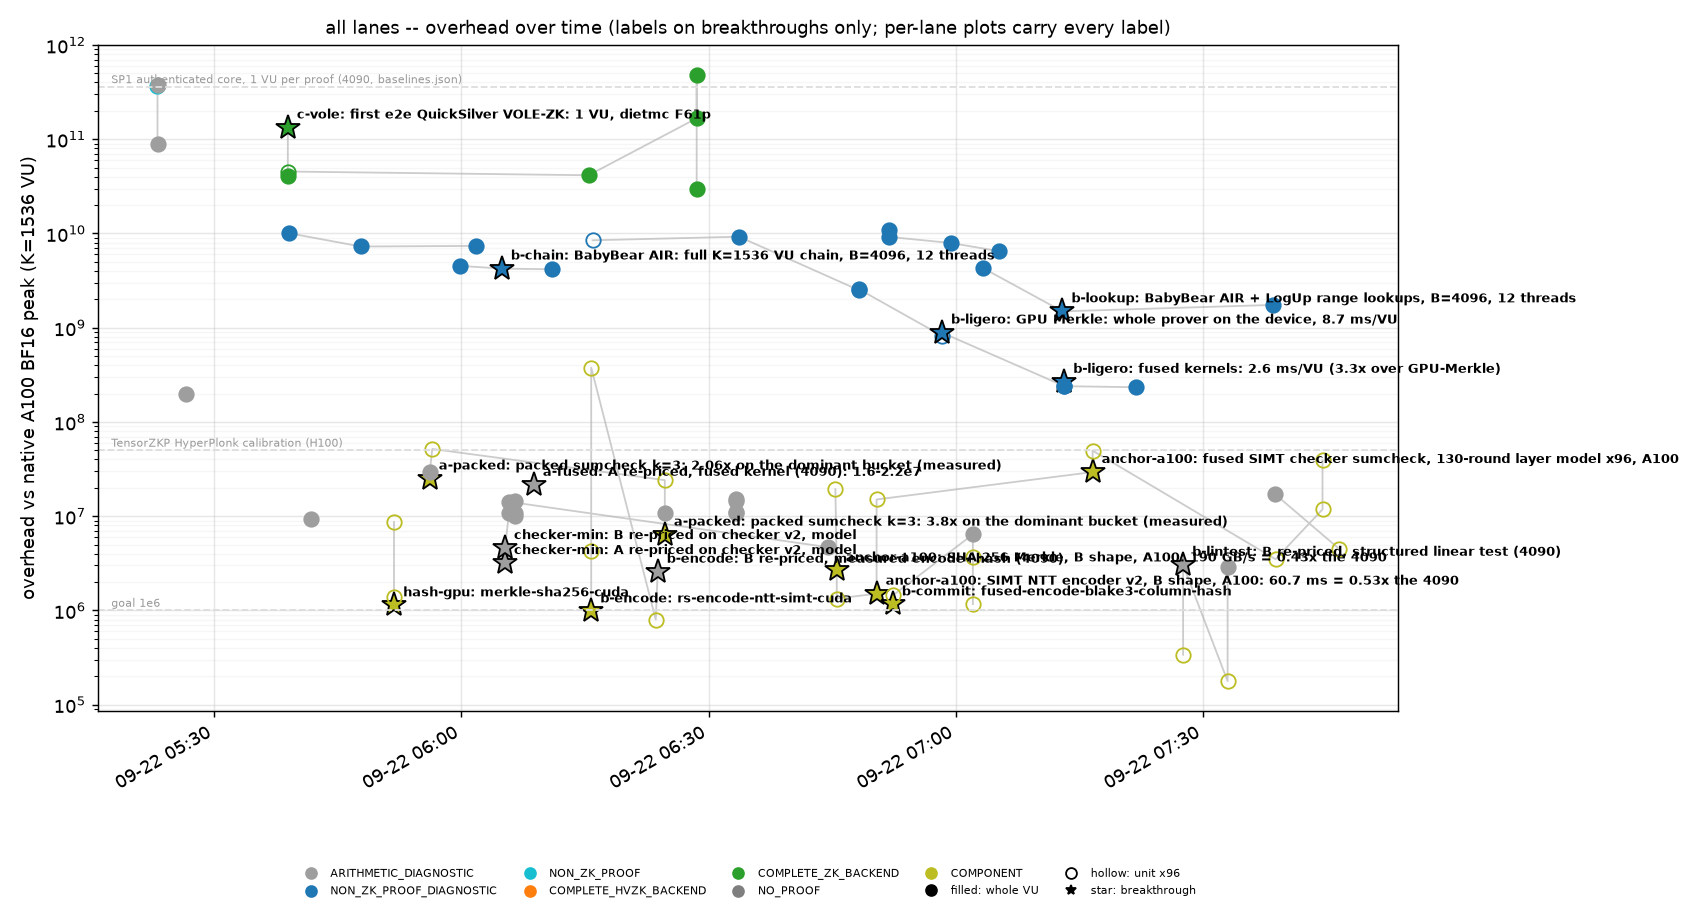
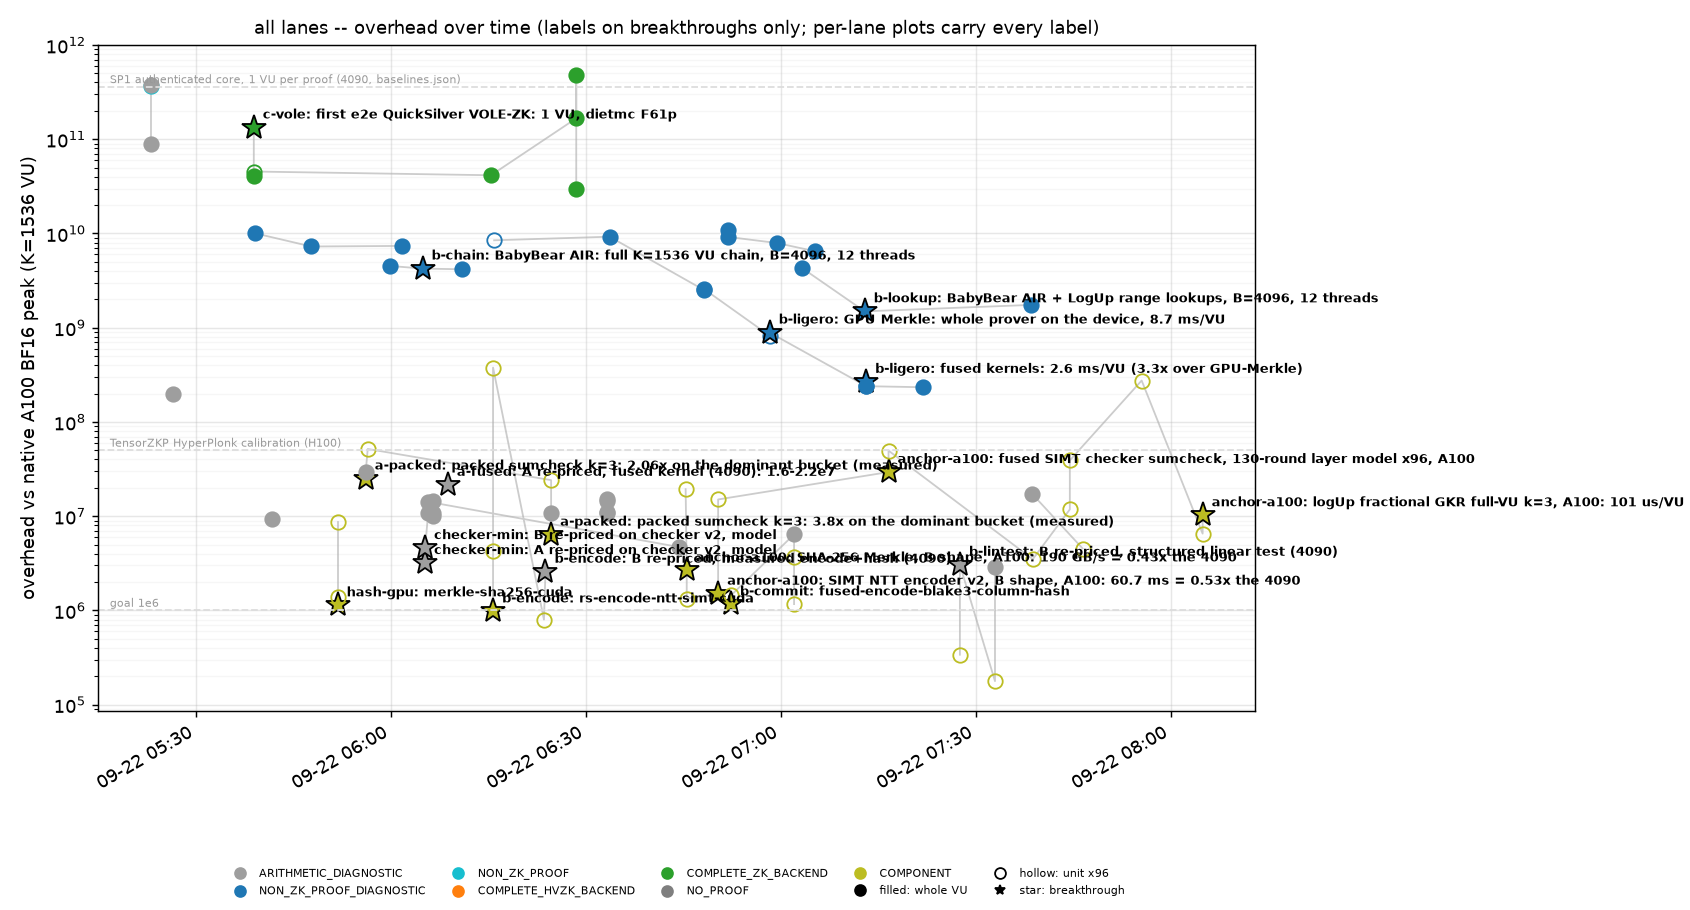
anchor-a100: a-packed2 kernels on the A100 (section 4b, packed README row, 2 ledger entries; logUp GKR launch-bound flagged); re-price uses Montgomery k=3 2^28 + measured logUp GKR: A 1.83e7

diff --git a/backends/shared/anchor_a100/report.py b/backends/shared/anchor_a100/report.py
@@ -260,6 +260,44 @@ def sec_packed(a100: dict, ref: dict) -> tuple[str, list[dict]]:
     return txt, data
 
 
+def sec_packed2(a26: dict, h26: dict, a28: dict, h28: dict, alog: dict, hlog: dict) -> tuple[str, list[dict]]:
+    """a-packed2 second pass: 32-bit Montgomery packed sumcheck (2^26 table, direct 2^28) and the logUp fractional GKR at the full-VU shape."""
+    rows, data = [], []
+    for lg, A, H in ((26, a26, h26), (28, a28, h28)):
+        for k in range(5):
+            ra = next((r for r in A["results"] if r["log2_t"] == lg and r["k"] == k), None)
+            rh = next((r for r in H["results"] if r["log2_t"] == lg and r["k"] == k), None)
+            if not ra or not rh:
+                continue
+            util_a = ra["macs_performed"] / DATASHEET_INT8_MACS / ra["seconds"]
+            rows.append([f"Montgomery packed sumcheck 2^{lg}, k={k}", f"{rh['seconds']*1e3:.2f} ms", f"{ra['seconds']*1e3:.2f} ms ({util_a:.2%} of A100 INT8 peak)", f"{rh['seconds']/ra['seconds']:.2f}x",
+                         f"{ra['macs_performed']/DATASHEET_INT8_MACS*1e3:.2f} ms TC@312T", f"{util_a:.4f}", f"{ra['mem.peak_device_bytes']/1e9:.1f} GB"])
+            data.append({"kernel": "packed2", "log2_t": lg, "k": k, "ref_gpu": "H100", "ref_s": rh["seconds"], "a100_s": ra["seconds"], "ratio_ref_over_a100_time": rh["seconds"] / ra["seconds"],
+                         "a100_fraction_of_int8_peak": util_a, "a100_peak_mem_bytes": ra["mem.peak_device_bytes"]})
+    for lg, A, H in ((26, a26, h26), (28, a28, h28)):
+        for k in sorted(A["layers"], key=int):
+            La, Lh = A["layers"][k], H["layers"].get(k)
+            if not Lh:
+                continue
+            rows.append([f"six-layer batch from the 2^{lg} fit, k={k} (padded / un-padded)", f"{Lh['batch_seconds.padded']*1e3:.0f} / {Lh['batch_seconds.unpadded']*1e3:.0f} ms = {Lh['per_vu_seconds.padded']*1e6:.1f} us/VU",
+                         f"{La['batch_seconds.padded']*1e3:.0f} / {La['batch_seconds.unpadded']*1e3:.0f} ms = **{La['per_vu_seconds.padded']*1e6:.1f} us/VU**", f"{Lh['batch_seconds.padded']/La['batch_seconds.padded']:.2f}x", "", "", ""])
+            data.append({"kernel": "packed2.layers", "log2_t_fit": lg, "k": int(k), "ref_gpu": "H100", "ref_batch_s_padded": Lh["batch_seconds.padded"], "a100_batch_s_padded": La["batch_seconds.padded"],
+                         "a100_batch_s_unpadded": La["batch_seconds.unpadded"], "a100_per_vu_s": La["per_vu_seconds.padded"], "ratio_ref_over_a100_time": Lh["batch_seconds.padded"] / La["batch_seconds.padded"]})
+    for ra in alog["results"]:
+        rh = next((r for r in hlog["results"] if r["k"] == ra["k"]), None)
+        if not rh:
+            continue
+        rows.append([f"logUp fractional GKR, full-VU shape ({alog['units']:,} x {alog['lookups']} lookups, 2^{alog['n']} leaves), k={ra['k']}", f"{rh['total_ms']:.0f} ms = {rh['us_per_vu']:.0f} us/VU",
+                     f"**{ra['total_ms']:.0f} ms = {ra['us_per_vu']:.0f} us/VU** (20 smallest levels {ra['tail_levels_ms']:.0f} ms)", f"{rh['total_ms']/ra['total_ms']:.2f}x", "", "", f"{ra['mem.peak_device_bytes']/1e9:.1f} GB"])
+        data.append({"kernel": "logup_gkr", "k": ra["k"], "ref_gpu": "H100", "ref_s": rh["total_ms"] * 1e-3, "a100_s": ra["total_ms"] * 1e-3, "ratio_ref_over_a100_time": rh["total_ms"] / ra["total_ms"],
+                     "a100_us_per_vu": ra["us_per_vu"], "a100_tail_levels_ms": ra["tail_levels_ms"], "ref_tail_levels_ms": rh["tail_levels_ms"], "a100_peak_mem_bytes": ra["mem.peak_device_bytes"],
+                     "split_ms": {k: ra[k] for k in ("histogram_ms", "tree_ms", "big_packed_ms", "big_fold_k_ms", "big_ext_ms", "tail_levels_ms")}})
+    txt = md_table(["a-packed2 kernels (whole sumcheck, CUDA-graphed rounds)", "H100 recorded", "A100 measured", "speed ratio A100/H100", "A100 TC floor", "fraction of INT8 peak", "A100 peak mem"], rows)
+    if a26.get("agreement_test_tail"):
+        txt += f"\n\nAgreement test on the A100 (Montgomery kernels): {a26['agreement_test_tail']}"
+    return txt, data
+
+
 def sec_tensor(a100: dict, ref: dict) -> tuple[str, list[dict]]:
     rows, data = [], []
     for r4 in ref["measured"]["rounds"]:
@@ -341,13 +379,20 @@ def reprice(meas: dict) -> tuple[str, dict]:
                 cands["packed k=3 six-layer batch (padded)"] = meas["packed_k3_batch_s_padded"]
             if "packed_k0_batch_s_padded" in meas:
                 cands["plain k=0 six-layer batch (padded)"] = meas["packed_k0_batch_s_padded"]
+            if "packed2_best_batch_s_padded" in meas:
+                cands[meas["packed2_best_label"] + " six-layer batch (padded)"] = meas["packed2_best_batch_s_padded"]
             if cands:
                 best_label = min(cands, key=cands.get)
                 t_gkr = cands[best_label]
                 buckets["gkr_checker_sumcheck"] = (t_gkr, f"measured: {best_label} (model @0.172: {(t_gkr_mm + t_gkr_simt)*1e3:.0f} ms; alternatives "
                                                    + ", ".join(f"{k} {v*1e3:.0f} ms" for k, v in cands.items()) + ")")
                 total = total - t_gkr_mm - t_gkr_simt + t_gkr
-                if "fused_layer_graphed_s" in meas and "logup_over_checker_round" in meas:
+                if "logup_gkr_full_vu_s" in meas:
+                    t_logup = meas["logup_gkr_full_vu_s"]
+                    buckets["logup_fractional_gkr"] = (t_logup, f"measured: a-packed2 logUp fractional GKR at the full-VU shape (393,216 units x 306 lookups, 65,536-row table), k=3, "
+                                                        f"whole bucket on the A100 (model @0.172: {(t_logup_mm + t_logup_simt)*1e3:.0f} ms; launch-bound: ~0.1-0.2 s of device work)")
+                    total = total - t_logup_mm - t_logup_simt + t_logup
+                elif "fused_layer_graphed_s" in meas and "logup_over_checker_round" in meas:
                     # per element the measured logUp round costs (logup_us / checker_us) of a fused checker round; the model's MAC ratio
                     # (which carries the 5-vs-3 table factor, hence x3/5) supplies the element count relative to the checker.
                     t_logup = meas["fused_layer_graphed_s"] * tx.UNITS_PER_VU / p.matmul["gkr_checker"] * p.matmul["logup_fractional_gkr"] * meas["logup_over_checker_round"] * 3 / 5
@@ -491,6 +536,31 @@ def main(argv=None) -> int:
         md += [f"Best k on the A100: **k={best_k}**, {Lb['batch_seconds.padded']*1e3:.0f} ms per six-layer batch = {Lb['per_vu_seconds.padded']*1e6:.1f} us/VU "
                f"(H100: k=3, 257 ms, 62.7 us/VU)." + (f"  At 2^26 k=3: {r26['a100_s']*1e3:.2f} ms vs 9.08 on the H100 ({r26['ratio_ref_over_a100_time']:.2f}x; bandwidth ratio 0.61, "
                                                      f"INT8-peak ratio 0.32)." if r26 else ""), ""]
+    p2_a26 = load(R / "wave2_gkr" / "packed26" / "bench.json")
+    p2_h26 = load(REPO / "backends/gkr/packed/results/r20260922-064917-c293/bench.json")
+    p2_a28 = load(R / "wave2_gkr" / "packed28" / "bench.json")
+    p2_h28 = load(REPO / "backends/gkr/packed/results/r20260922-065412-73be/bench.json")
+    lg_a = load(R / "wave2_gkr" / "logup" / "logup_bench.json")
+    lg_h = load(REPO / "backends/gkr/packed/results/r20260922-073439-1f15/logup_bench.json")
+    if p2_a26 and p2_h26 and p2_a28 and p2_h28 and lg_a and lg_h:
+        txt, d = sec_packed2(p2_a26, p2_h26, p2_a28, p2_h28, lg_a, lg_h)
+        doc["kernels"] += d
+        md += ["## 4b. `backends/gkr/packed` second pass (a-packed2, landed on main 07:4xZ): 32-bit Montgomery packed sumcheck, direct 2^28, logUp fractional GKR "
+               "(H100 runs `r20260922-064917-c293`, `r20260922-065412-73be`, `r20260922-073439-1f15`; A100 run `r20260922-075147-91a5`)", "", txt, ""]
+        best = min((r for r in d if r["kernel"] == "packed2.layers"), key=lambda r: r["a100_batch_s_padded"])
+        meas["packed2_best_batch_s_padded"] = best["a100_batch_s_padded"]
+        meas["packed2_best_batch_s_unpadded"] = best["a100_batch_s_unpadded"]
+        meas["packed2_best_label"] = f"Montgomery packed k={best['k']} from the 2^{best['log2_t_fit']} fit"
+        l3 = next((r for r in d if r["kernel"] == "logup_gkr" and r["k"] == 3), None)
+        if l3:
+            meas["logup_gkr_full_vu_s"] = l3["a100_s"]
+        r28 = next((r for r in d if r["kernel"] == "packed2" and r["log2_t"] == 28 and r["k"] == 3), None)
+        md += [(f"The Montgomery kernels scale with bandwidth on the A100: 0.52-0.61x the H100 at 2^26 (bandwidth ratio 0.61), k=3 direct 2^28 **{r28['a100_s']*1e3:.1f} ms** "
+                f"({r28['ratio_ref_over_a100_time']:.2f}x the H100's 17.7; {r28['a100_fraction_of_int8_peak']:.1%} of the A100 INT8 peak) = **{best['a100_per_vu_s']*1e6:.1f} us/VU, {best['a100_batch_s_padded']*1e3:.0f} ms per six-layer batch** "
+                f"padded ({best['a100_batch_s_unpadded']*1e3:.0f} un-padded) -- 1.8x better than the first-pass packed k=3 on the same card (476 ms).  k=2 and k=3 are within 4% of each other on the A100 "
+                f"(the base x base Hadamard share is INT32 work at 0.47x the H100's rate).  **Finding (flagged).**  The logUp fractional GKR runs at **{l3['a100_s']*1e3:.0f} ms = {l3['a100_us_per_vu']:.0f} us/VU** "
+                f"on the A100 vs 427 on the H100 ({l3['ratio_ref_over_a100_time']:.2f}x: a 1.7x departure from the bandwidth ratio) -- it is host-launch-bound (~1 ms x 351 rounds; the 20 smallest levels are "
+                f"{l3['a100_tail_levels_ms']:.0f} of the {l3['a100_s']*1e3:.0f} ms on both cards), so the GPU does not matter yet; the device work is ~0.1-0.2 s.  Fixing the launch loop (CUDA graphs per level) is worth ~2x on either card."), ""]
     tensor_a = load(R / "tensor" / "bench.json")
     tensor_ref = load(REPORTS / "tc_sumcheck_4090.json")
     if tensor_a and tensor_ref:

diff --git a/backends/numerical/reports/anchor_a100.md b/backends/numerical/reports/anchor_a100.md
@@ -2,7 +2,7 @@
 
 **Scope: component measurements** (kernel time on random/patterned data, bit-exact against each lane's CPU reference), then one `ARITHMETIC_DIAGNOSTIC` re-price of A and B with those numbers.  Nothing here is a proof.  Every recorded 4090 / H100 number is the lane's own (its README / report, run id in the lane's table); every A100 number is a `research run --on vy-a100b --exclusive` of the same bench, same flags, CUDA events, warm, median of >= 7, bit-exact checks on.  `overhead.vs_native_peak` is defined against *this* card's dense BF16 peak (`contract.NATIVE_REFERENCE`, 9.85 ps per K=1536 VU), so the last section is the first A-vs-B comparison where the prover and the reference are the same machine.
 
-Device: NVIDIA A100-SXM4-80GB, 580.126.16, 1410 MHz, 1593 MHz, 81920 MiB; torch 2.6.0+cu124, CUDA 12.4, 108 SMs (sm_80).  Recorded runs: microbench `r20260922-063608-a304`, hash_gpu `r20260922-063811-e561`, encode `r20260922-064413-0508`, fused `r20260922-064953-f9bb`, fused_logup `r20260922-071602-522d`, packed `r20260922-073828-153f`, packed_killed_mislaunch `r20260922-073540-f5b5`, tensor `r20260922-074359-964b`.
+Device: NVIDIA A100-SXM4-80GB, 580.126.16, 1410 MHz, 1593 MHz, 81920 MiB; torch 2.6.0+cu124, CUDA 12.4, 108 SMs (sm_80).  Recorded runs: microbench `r20260922-063608-a304`, hash_gpu `r20260922-063811-e561`, encode `r20260922-064413-0508`, fused `r20260922-064953-f9bb`, fused_logup `r20260922-071602-522d`, packed `r20260922-073828-153f`, packed_killed_mislaunch `r20260922-073540-f5b5`, tensor `r20260922-074359-964b`, wave2_gkr (packed Montgomery 2^26, direct 2^28, logUp GKR full-VU) `r20260922-075147-91a5`.
 
 Bandwidth ratios the earlier reports *scaled* by: A100/4090 = 2,039/1,008 = 2.02; A100/H100 = 2,039/3,350 = 0.61.  Speed ratios below are recorded-time / A100-time (> 1 = the A100 is faster); a departure from the bandwidth ratio by > 1.5x either way is a finding about the kernel and is flagged.
 
@@ -191,6 +191,33 @@ Agreement test on the A100: 36 passed in 61.24s (0:01:01)
 
 Best k on the A100: **k=3**, 476 ms per six-layer batch = 116.3 us/VU (H100: k=3, 257 ms, 62.7 us/VU).  At 2^26 k=3: 16.58 ms vs 9.08 on the H100 (0.55x; bandwidth ratio 0.61, INT8-peak ratio 0.32).
 
+## 4b. `backends/gkr/packed` second pass (a-packed2, landed on main 07:4xZ): 32-bit Montgomery packed sumcheck, direct 2^28, logUp fractional GKR (H100 runs `r20260922-064917-c293`, `r20260922-065412-73be`, `r20260922-073439-1f15`; A100 run `r20260922-075147-91a5`)
+
+| a-packed2 kernels (whole sumcheck, CUDA-graphed rounds) | H100 recorded | A100 measured | speed ratio A100/H100 | A100 TC floor | fraction of INT8 peak | A100 peak mem |
+|---|---|---|---|---|---|---|
+| Montgomery packed sumcheck 2^26, k=0 | 12.56 ms | 21.39 ms (6.37% of A100 INT8 peak) | 0.59x | 1.36 ms TC@312T | 0.0637 | 34.1 GB |
+| Montgomery packed sumcheck 2^26, k=1 | 10.68 ms | 17.80 ms (4.47% of A100 INT8 peak) | 0.60x | 0.79 ms TC@312T | 0.0447 | 17.2 GB |
+| Montgomery packed sumcheck 2^26, k=2 | 6.43 ms | 11.17 ms (4.62% of A100 INT8 peak) | 0.58x | 0.52 ms TC@312T | 0.0462 | 8.9 GB |
+| Montgomery packed sumcheck 2^26, k=3 | 5.97 ms | 11.54 ms (4.07% of A100 INT8 peak) | 0.52x | 0.47 ms TC@312T | 0.0407 | 4.5 GB |
+| Montgomery packed sumcheck 2^26, k=4 | 9.25 ms | 15.19 ms (4.16% of A100 INT8 peak) | 0.61x | 0.63 ms TC@312T | 0.0416 | 2.4 GB |
+| Montgomery packed sumcheck 2^28, k=2 | 19.78 ms | 34.33 ms (6.01% of A100 INT8 peak) | 0.58x | 2.06 ms TC@312T | 0.0601 | 34.4 GB |
+| Montgomery packed sumcheck 2^28, k=3 | 17.69 ms | 31.93 ms (5.88% of A100 INT8 peak) | 0.55x | 1.88 ms TC@312T | 0.0588 | 17.8 GB |
+| Montgomery packed sumcheck 2^28, k=4 | 30.96 ms | 43.80 ms (5.78% of A100 INT8 peak) | 0.71x | 2.53 ms TC@312T | 0.0578 | 10.6 GB |
+| six-layer batch from the 2^26 fit, k=0 (padded / un-padded) | 369 / 223 ms = 90.1 us/VU | 638 / 385 ms = **155.8 us/VU** | 0.58x |  |  |  |
+| six-layer batch from the 2^26 fit, k=1 (padded / un-padded) | 308 / 187 ms = 75.2 us/VU | 519 / 314 ms = **126.7 us/VU** | 0.59x |  |  |  |
+| six-layer batch from the 2^26 fit, k=2 (padded / un-padded) | 169 / 104 ms = 41.4 us/VU | 303 / 186 ms = **74.0 us/VU** | 0.56x |  |  |  |
+| six-layer batch from the 2^26 fit, k=3 (padded / un-padded) | 154 / 95 ms = 37.5 us/VU | 316 / 194 ms = **77.2 us/VU** | 0.49x |  |  |  |
+| six-layer batch from the 2^26 fit, k=4 (padded / un-padded) | 263 / 160 ms = 64.2 us/VU | 432 / 263 ms = **105.5 us/VU** | 0.61x |  |  |  |
+| six-layer batch from the 2^28 fit, k=2 (padded / un-padded) | 163 / 97 ms = 39.8 us/VU | 283 / 168 ms = **69.1 us/VU** | 0.58x |  |  |  |
+| six-layer batch from the 2^28 fit, k=3 (padded / un-padded) | 146 / 86 ms = 35.6 us/VU | 263 / 156 ms = **64.3 us/VU** | 0.55x |  |  |  |
+| six-layer batch from the 2^28 fit, k=4 (padded / un-padded) | 255 / 151 ms = 62.4 us/VU | 361 / 214 ms = **88.2 us/VU** | 0.71x |  |  |  |
+| logUp fractional GKR, full-VU shape (393,216 x 306 lookups, 2^27 leaves), k=3 | 427 ms = 104 us/VU | **412 ms = 101 us/VU** (20 smallest levels 144 ms) | 1.04x |  |  | 12.4 GB |
+| logUp fractional GKR, full-VU shape (393,216 x 306 lookups, 2^27 leaves), k=0 | 447 ms = 109 us/VU | **478 ms = 117 us/VU** (20 smallest levels 142 ms) | 0.94x |  |  | 24.8 GB |
+
+Agreement test on the A100 (Montgomery kernels): 46 passed in 405.11s (0:06:45)
+
+The Montgomery kernels scale with bandwidth on the A100: 0.52-0.61x the H100 at 2^26 (bandwidth ratio 0.61), k=3 direct 2^28 **31.9 ms** (0.55x the H100's 17.7; 5.9% of the A100 INT8 peak) = **64.3 us/VU, 263 ms per six-layer batch** padded (156 un-padded) -- 1.8x better than the first-pass packed k=3 on the same card (476 ms).  k=2 and k=3 are within 4% of each other on the A100 (the base x base Hadamard share is INT32 work at 0.47x the H100's rate).  **Finding (flagged).**  The logUp fractional GKR runs at **412 ms = 101 us/VU** on the A100 vs 427 on the H100 (1.04x: a 1.7x departure from the bandwidth ratio) -- it is host-launch-bound (~1 ms x 351 rounds; the 20 smallest levels are 144 of the 412 ms on both cards), so the GPU does not matter yet; the device work is ~0.1-0.2 s.  Fixing the launch loop (CUDA graphs per level) is worth ~2x on either card.
+
 ## 5. `backends/gkr/tensor` -- the original INT8-limb round (4090 run `r20260922-051730-15d4`)
 
 | INT8-limb round (tensor lane) | RTX 4090 recorded | A100 measured | speed ratio A100/4090 | A100 TC floor | fraction of INT8 peak |
@@ -229,9 +256,9 @@ Agreement test on the A100: 22 passed in 29.04s
 | design | model only (A100 peaks @0.172, Blake3 50 GB/s) | **A100-measured buckets**: overhead (t.total per batch) | buckets, ms (measured in bold) |
 |---|---|---|---|
 | **B** | 2.38e+07 (962 ms) | **4.88e+06** (197 ms; 48 us/VU) | encoding **57.4**; hash **54.0**; row_combination 10.1; linear/quadratic tests + helpers (SIMT) 70.6; hint_generation 1.6; prg 3.2 |
-| **A** | 3.17e+07 (1278 ms) | **2.69e+07** (1084 ms; 265 us/VU) | encoding **11.0**; hash **9.0**; row_combination 1.4; other SIMT (logUp tree build, ...) 37.2; gkr_checker_sumcheck **476.4**; logup_fractional_gkr **546.6**; hint_generation 1.6; prg 0.5 |
+| **A** | 3.17e+07 (1278 ms) | **1.83e+07** (736 ms; 180 us/VU) | encoding **11.0**; hash **9.0**; row_combination 1.4; other SIMT (logUp tree build, ...) 37.2; gkr_checker_sumcheck **263.4**; logup_fractional_gkr **412.2**; hint_generation 1.6; prg 0.5 |
 
-Measured inputs: `hash_rate_B` = 3.77e+11; `hash_rate_A` = 3.56e+11; `hash_B_kernel` = blake3; `hash_A_kernel` = blake3; `encoder_seconds_per_row_B` = 1.85e-07; `encoder_B_kernel` = ntt_simt_v2_t1024; `encoder_seconds_per_row_A` = 2.25e-07; `encoder_A_kernel` = ntt_simt_v2_t1024; `fused_layer_graphed_s` = 0.0123; `fused_checker_round_2p21_us` = 473.7920; `logup_round_2p21_us` = 1,468.6720; `logup_over_checker_round` = 3.0998; `packed_k0_batch_s_padded` = 1.5777; `packed_k0_per_vu_s` = 0.000385; `packed_k3_batch_s_padded` = 0.4764; `packed_k3_per_vu_s` = 0.000116
+Measured inputs: `hash_rate_B` = 3.77e+11; `hash_rate_A` = 3.56e+11; `hash_B_kernel` = blake3; `hash_A_kernel` = blake3; `encoder_seconds_per_row_B` = 1.85e-07; `encoder_B_kernel` = ntt_simt_v2_t1024; `encoder_seconds_per_row_A` = 2.25e-07; `encoder_A_kernel` = ntt_simt_v2_t1024; `fused_layer_graphed_s` = 0.0123; `fused_checker_round_2p21_us` = 473.7920; `logup_round_2p21_us` = 1,468.6720; `logup_over_checker_round` = 3.0998; `packed_k0_batch_s_padded` = 1.5777; `packed_k0_per_vu_s` = 0.000385; `packed_k3_batch_s_padded` = 0.4764; `packed_k3_per_vu_s` = 0.000116; `packed2_best_batch_s_padded` = 0.2634; `packed2_best_batch_s_unpadded` = 0.1561; `packed2_best_label` = Montgomery packed k=3 from the 2^28 fit; `logup_gkr_full_vu_s` = 0.4122
 
 * **B**: overhead **4.88e+06** (197 ms per batch, 48 us/VU).
 
@@ -244,14 +271,14 @@ Measured inputs: `hash_rate_B` = 3.77e+11; `hash_rate_A` = 3.56e+11; `hash_B_ker
 
   Omitted (still modelled): witness/hint generation (modelled: 2e4 int ops per unit at 25% of the A100 FP32 peak); Ligero row combination (modelled matmul @0.172 of the A100 INT8 peak); openings and transcript serialisation (not priced); prover randomness (modelled PRG at 100 GB/s); linear/quadratic tests, constraint combination, helper inversions (modelled SIMT at the A100 rate).
 
-* **A**: overhead **2.69e+07** (1084 ms per batch, 265 us/VU).
+* **A**: overhead **1.83e+07** (736 ms per batch, 180 us/VU).
 
   * encoding: 11.0 ms (1%) -- measured: ntt_simt_v2_t1024 0.225 us/row x 48,873 rows
   * hash: 9.0 ms (1%) -- measured: blake3 356 GB/s over 3.21 GB
   * row_combination: 1.4 ms (0%) -- modelled matmul @0.172
-  * other SIMT (logUp tree build, ...): 37.2 ms (3%) -- modelled SIMT
-  * gkr_checker_sumcheck: 476.4 ms (44%) -- measured: packed k=3 six-layer batch (padded) (model @0.172: 850 ms; alternatives fused SIMT layer model x96 (graphed) 1185 ms, packed k=3 six-layer batch (padded) 476 ms, plain k=0 six-layer batch (padded) 1578 ms)
-  * logup_fractional_gkr: 546.6 ms (50%) -- measured rate: fused logUp round 1469 us = 3.10x a fused checker round at 2^21, x the fused checker layer model x96 at the model's logUp/checker element ratio (model @0.172: 249 ms)
+  * other SIMT (logUp tree build, ...): 37.2 ms (5%) -- modelled SIMT
+  * gkr_checker_sumcheck: 263.4 ms (36%) -- measured: Montgomery packed k=3 from the 2^28 fit six-layer batch (padded) (model @0.172: 850 ms; alternatives fused SIMT layer model x96 (graphed) 1185 ms, packed k=3 six-layer batch (padded) 476 ms, plain k=0 six-layer batch (padded) 1578 ms, Montgomery packed k=3 from the 2^28 fit six-layer batch (padded) 263 ms)
+  * logup_fractional_gkr: 412.2 ms (56%) -- measured: a-packed2 logUp fractional GKR at the full-VU shape (393,216 units x 306 lookups, 65,536-row table), k=3, whole bucket on the A100 (model @0.172: 249 ms; launch-bound: ~0.1-0.2 s of device work)
   * hint_generation: 1.6 ms (0%) -- modelled
   * prg: 0.5 ms (0%) -- modelled
 

diff --git a/backends/gkr/packed/README.md b/backends/gkr/packed/README.md
@@ -127,6 +127,8 @@ Full write-up: `backends/numerical/reports/a_kernels_h100.md`.  Runs (all vy-g4 
 | r20260922-073439-1f15 | **logUp GKR at the full-VU shape** (393,216 x 306 lookups, 65,536-row table): k = 3 **427 ms = 104 us/VU**, k = 0 447 ms |
 | r20260922-073702-b11f | fused (split) k = 4 vs k = 3: 2^26 7.57 vs 6.13 ms, 2^28 22.88 vs 17.61 ms. **k = 4 fused recovers 1.3x (9.25 -> 7.57) but still loses; default stays k = 3**; kept as a memory lever (11.0 vs 18.2 GB at 2^28) |
 
+| **A100** r20260922-075147-91a5 (anchor-a100 lane, NVIDIA A100-SXM4-80GB, same flags; 46 CUDA tests bit-exact) | Montgomery 2^26: k = 0..4 **21.4 / 17.8 / 11.2 / 11.5 / 15.2 ms** (0.52-0.61x the H100 = the bandwidth ratio 0.61); direct 2^28 k = 2, 3, 4: 34.3 / **31.9** / 43.8 ms (0.55x; 5.9% of the A100 INT8 peak) = **64.3 us/VU, 263 ms per six-layer batch** padded (156 un-padded); logUp GKR full-VU k = 3 **412 ms = 101 us/VU** (H100 427: 1.04x -- launch-bound, the card does not matter yet), k = 0 478 ms. Table: `backends/numerical/reports/anchor_a100.md` section 4b |
+
 The k-table before -> after Montgomery (2^26 ms; per VU = six padded layers / 4096): k = 0 30.9 -> 12.6 (238 -> 90 us), k = 1 18.5 -> 10.7,
 k = 2 11.7 -> 6.4, **k = 3 9.08 -> 5.97 (62.7 -> 37.5 us; 35.6 us from the direct 2^28 point)**, k = 4 23.4 -> 9.25.
 3.35% of INT8 peak and 3.3x the HBM floor at 2^28: still SIMT-bound (limb decomposition + `tl.join` feeding `tl.dot`).
